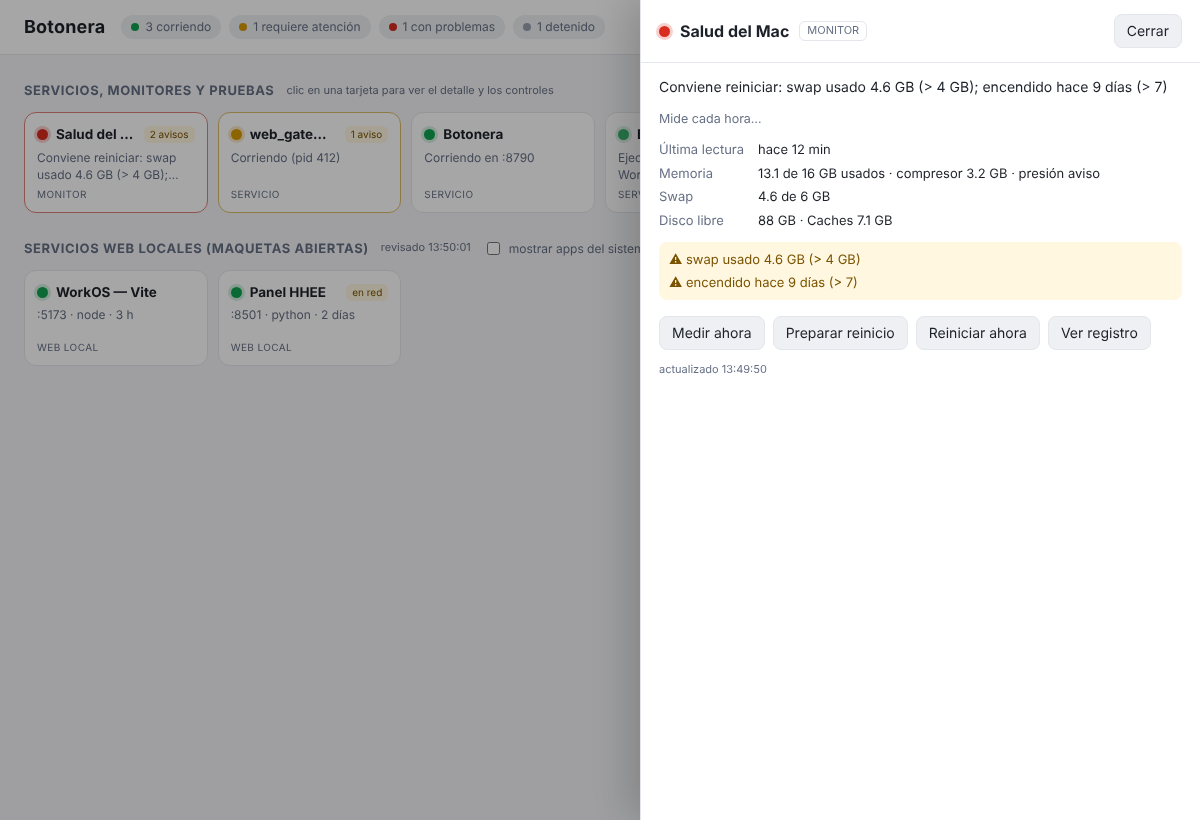
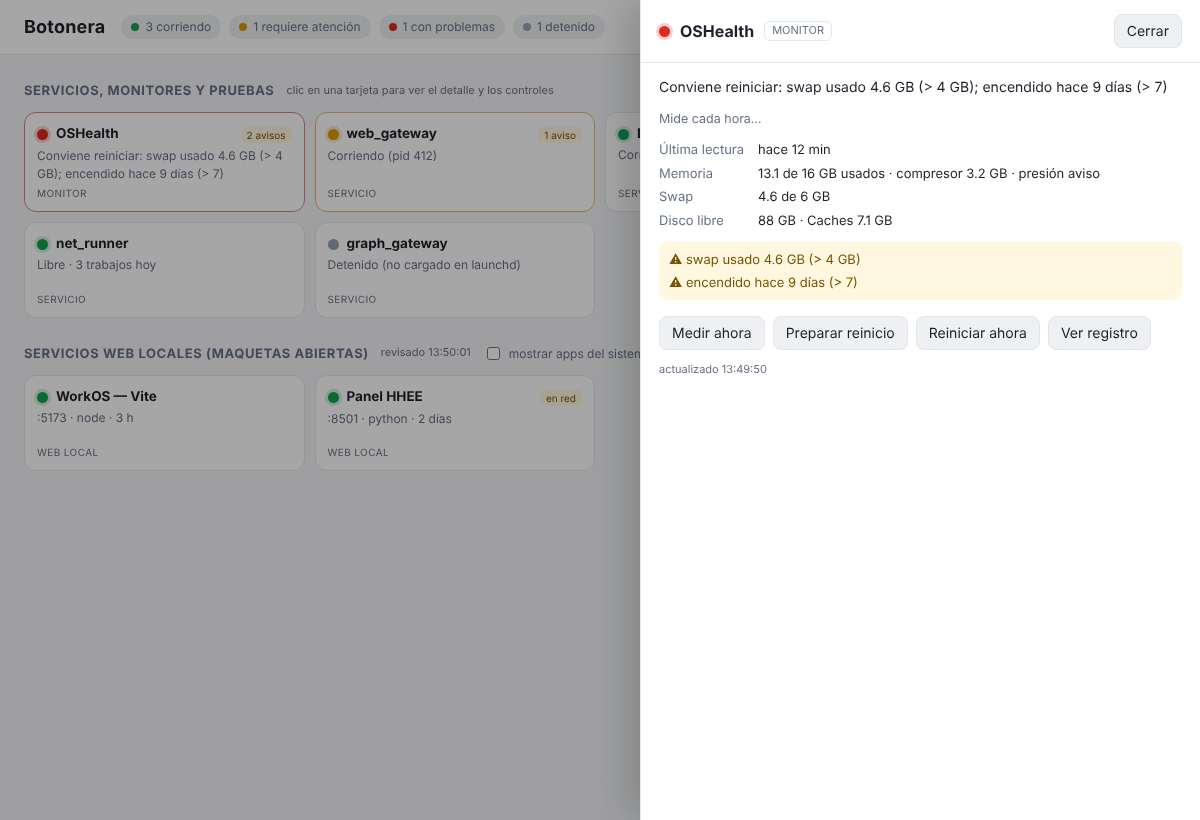
Mosaico: tarjetas más anchas con nombre y subtítulo completos; el nombre de la ficha manda; monitor renombrado OSHealth
Claude-Session: https://claude.ai/code/session_01NZBxFnDTuB7P2JtrEmbZB5

diff --git a/botonera/pagina.html b/botonera/pagina.html
@@ -38,19 +38,21 @@ h2 { font-size: 13px; text-transform: uppercase; letter-spacing: .6px; color: va
 .pie { color: var(--tenue); font-size: 11px; }
 
 /* ---- mosaico ---- */
-.mosaico { display: grid; grid-template-columns: repeat(auto-fill, minmax(170px, 1fr)); gap: 10px; margin-bottom: 26px; }
+.mosaico { display: grid; grid-template-columns: repeat(auto-fill, minmax(230px, 1fr)); gap: 10px; margin-bottom: 26px; align-items: stretch; }
 .tile { position: relative; text-align: left; background: var(--panel); border: 1px solid var(--borde); border-radius: 12px;
   padding: 12px 12px 10px; cursor: pointer; display: flex; flex-direction: column; gap: 4px; min-height: 96px;
   font: inherit; color: inherit; transition: transform .08s, box-shadow .12s, border-color .12s; }
 .tile:hover, .tile:focus-visible { transform: translateY(-1px); box-shadow: 0 6px 18px rgba(0,0,0,.10); border-color: var(--acento); outline: none; }
 .tile.s-rojo { border-color: color-mix(in srgb, var(--rojo) 55%, var(--borde)); }
 .tile.s-amarillo { border-color: color-mix(in srgb, var(--amarillo) 55%, var(--borde)); }
-.tile .cab { display: flex; align-items: center; gap: 8px; }
-.tile .nombre { font-weight: 650; font-size: 13.5px; overflow: hidden; text-overflow: ellipsis; white-space: nowrap; }
-.tile .sub { font-size: 12px; color: var(--tenue); display: -webkit-box; -webkit-line-clamp: 2; -webkit-box-orient: vertical; overflow: hidden; }
+.tile .cab { display: flex; align-items: flex-start; gap: 8px; }
+.tile .cab .punto { margin-top: 4px; }
+.tile .nombre { font-weight: 650; font-size: 13.5px; line-height: 1.3; overflow-wrap: anywhere;
+  display: -webkit-box; -webkit-line-clamp: 2; -webkit-box-orient: vertical; overflow: hidden; }
+.tile .sub { font-size: 12px; color: var(--tenue); overflow-wrap: anywhere; display: -webkit-box; -webkit-line-clamp: 3; -webkit-box-orient: vertical; overflow: hidden; }
 .tile .tipo { margin-top: auto; font-size: 10px; color: var(--tenue); text-transform: uppercase; letter-spacing: .4px; }
 .tile .nombre { flex: 1; min-width: 0; }
-.tile .marca { flex: none; font-size: 10px; padding: 1px 6px; border-radius: 6px; white-space: nowrap;
+.tile .marca { flex: none; font-size: 10px; padding: 1px 6px; border-radius: 6px; white-space: nowrap; margin-top: 2px;
   background: var(--aviso-fondo); color: var(--aviso-texto); }
 .tile.pulso .punto { animation: pulso 1.6s ease-in-out infinite; }
 @keyframes pulso { 0%,100% { opacity: 1 } 50% { opacity: .35 } }
@@ -124,7 +126,8 @@ dialog.modal { border: 1px solid var(--borde); border-radius: 12px; background: 
   width: min(1000px, 94vw); max-height: 88vh; padding: 0; }
 .modal-cab { display: flex; align-items: center; padding: 12px 16px; border-bottom: 1px solid var(--borde); position: sticky; top: 0; background: var(--panel); }
 .modal-cuerpo { padding: 12px 16px; overflow: auto; }
-@media (max-width: 600px) { header, main { padding-left: 16px; padding-right: 16px; } .mosaico { grid-template-columns: repeat(2, 1fr); } }
+@media (max-width: 600px) { header, main { padding-left: 16px; padding-right: 16px; } .mosaico { grid-template-columns: 1fr 1fr; } }
+@media (max-width: 420px) { .mosaico { grid-template-columns: 1fr; } }
 </style>
 </head>
 <body>
@@ -213,7 +216,7 @@ function tileServicio(s) {
   const enCurso = /en curso|iniciando|ejecutando/i.test(t.subtitulo || '');
   return `<button class="tile s-${esc(t.semaforo)} ${enCurso ? 'pulso' : ''}" data-tipo="servicio" data-clave="${esc(s.id)}"
       title="${esc(NOMBRES_SEM[t.semaforo] || '')}">
-    <span class="cab"><span class="punto ${esc(t.semaforo)}"></span><span class="nombre">${esc(t.titulo || s.nombre)}</span>
+    <span class="cab"><span class="punto ${esc(t.semaforo)}"></span><span class="nombre">${esc(s.nombre || t.titulo)}</span>
       ${n ? `<span class="marca">${n} aviso${n > 1 ? 's' : ''}</span>` : ''}</span>
     <span class="sub">${esc(t.subtitulo || '')}</span>
     <span class="tipo">${esc(s.tipo)}</span>
@@ -227,7 +230,7 @@ function detalleServicio(s) {
   const botones = (s.botones || []).map(b =>
     `<button data-id="${esc(s.id)}" data-accion="${esc(b.accion)}" data-etiqueta="${esc(b.etiqueta)}" data-confirmar="${b.confirmar ? 1 : 0}">${esc(b.etiqueta)}</button>`).join('');
   return {
-    semaforo: t.semaforo, titulo: t.titulo || s.nombre, tipo: s.tipo,
+    semaforo: t.semaforo, titulo: s.nombre || t.titulo, tipo: s.tipo,
     html: `<div class="det-sub">${esc(t.subtitulo || '')}</div>
       ${s.descripcion ? `<div class="det-desc">${esc(s.descripcion)}</div>` : ''}
       ${dl ? `<dl>${dl}</dl>` : ''}

diff --git a/mac_health/mac_health.py b/mac_health/mac_health.py
@@ -399,7 +399,7 @@ def tarjeta():
         atencion.append("La última mantención terminó con error: " + str(mant.get("error", ""))[:200])
 
     print(json.dumps({"servicio": "mac_health", "corriendo": True, "crudo": {"estado": d, "mantencion": mant},
-                      "tarjeta": {"semaforo": sem, "titulo": "Salud del Mac", "subtitulo": sub, "datos": datos,
+                      "tarjeta": {"semaforo": sem, "titulo": "OSHealth", "subtitulo": sub, "datos": datos,
                                   "atencion": atencion}}, ensure_ascii=False))
 
 
@@ -665,7 +665,7 @@ def ficha():
     return {
         "esquema": "botonera-servicio/1",
         "id": "mac_health",
-        "nombre": "Salud del Mac",
+        "nombre": "OSHealth",
         "tipo": "monitor",
         "descripcion": "Mide cada hora memoria, swap, presión, carga, disco y servidores locales; recomienda reiniciar y prepara el equipo para que vuelva limpio.",
         "carpeta": str(BASE),

diff --git a/mac_health/LEEME.md b/mac_health/LEEME.md
@@ -1,4 +1,4 @@
-# mac_health — Salud del Mac
+# mac_health — OSHealth (salud del Mac)
 
 Mide cada hora el estado del MacBook, recomienda reiniciar cuando hay señales de degradación y, desde la
 Botonera, prepara el equipo para que el reinicio lo deje limpio. Un solo archivo de Python con biblioteca
@@ -11,8 +11,8 @@ bash ~/dev/mac_health/instalar.command
 ```
 
 Escribe `~/Library/LaunchAgents/local.mac-health.plist` (cada 3600 s y al iniciar sesión), deja la ficha
-`~/dev/botonera/servicios/mac_health.json` y, si existe `~/dev/cowork-local/` (o la carpeta que indique `COWORK_LOCAL`),
-crea ahí `mac_health/` con un espejo de solo lectura del estado para tu asistente de IA. Hace la primera medición al terminar. Para quitarlo: `python3 mac_health.py desinstalar`.
+`~/dev/botonera/servicios/mac_health.json` y crea `~/dev/cowork-local/mac_health/` (espejo de solo lectura
+para los Cowork). Hace la primera medición al terminar. Para quitarlo: `python3 mac_health.py desinstalar`.
 
 ## Qué mide y cómo decide
 
@@ -43,7 +43,7 @@ Los umbrales están en el dict `UMBRAL` al inicio de `mac_health.py`.
   4. Pide quit a las apps abiertas, excepto Finder, Terminal, iTerm2, Claude y navegadores. Las que
      queden abiertas (documentos sin guardar) se listan en la tarjeta.
   5. `brew cleanup -s --prune=all`, `npm cache clean --force`, `pip cache purge`, `uv cache clean`, DerivedData.
-  6. Vacía `~/Library/Caches` completo, protegiendo `ms-playwright` (navegadores de Playwright, pesados de volver a bajar).
+  6. Vacía `~/Library/Caches` completo, protegiendo `ms-playwright` (los navegadores de net_runner y web_gateway).
   7. Temporales del usuario (`DARWIN_USER_TEMP_DIR`) con más de 1 h.
   8. `~/Library/Logs` con más de 7 días.
   9. Papelera.
@@ -55,8 +55,8 @@ Los umbrales están en el dict `UMBRAL` al inicio de `mac_health.py`.
 - **Reiniciar ahora** (pide confirmación): `osascript … System Events restart`. Una app con cambios sin
   guardar puede detener el reinicio; la tarjeta ya te habrá avisado cuál.
 
-Los agentes de launchd (tus propios servicios) no se tocan: el reinicio los cierra y launchd los vuelve a
-levantar al iniciar sesión.
+Los gateways de launchd (net_runner, web_gateway, graph_gateway) no se tocan: el reinicio los cierra y
+launchd los vuelve a levantar al iniciar sesión.
 
 ## Permisos de macOS (primera vez)
 
@@ -74,7 +74,7 @@ Privacidad y seguridad.
 | Última medición / historial (200 lecturas) | `~/dev/mac_health/var/estado.json`, `var/historial.jsonl` |
 | Estado y registro de la mantención | `~/dev/mac_health/var/mantencion.json`, `var/mantencion.log` |
 | Salida del agente launchd | `~/dev/mac_health/var/launchd.log` |
-| Espejo para tu asistente de IA (opcional) | `$COWORK_LOCAL/mac_health/estado.json`, `historial.json`, `mantencion.json` |
+| Espejo para los Cowork (skill `mac-health`) | `~/dev/cowork-local/mac_health/estado.json`, `historial.json`, `mantencion.json` |
 | Ficha de la Botonera | `~/dev/botonera/servicios/mac_health.json` |
 | Agente launchd | `~/Library/LaunchAgents/local.mac-health.plist` |
 

diff --git a/docs/CONTRATO.md b/docs/CONTRATO.md
@@ -52,7 +52,7 @@ Las rutas van **absolutas** (la Botonera no expande `~` dentro de `cmd`). Cualqu
 | Campo | Uso en la página |
 |---|---|
 | `semaforo` | color del punto; `rojo`/`amarillo` resaltan el borde de la tarjeta compacta |
-| `titulo` | nombre en la tarjeta compacta y en el detalle |
+| `titulo` | respaldo del nombre: en la página manda el `nombre` de la ficha (así renombras algo sin tocar su script) |
 | `subtitulo` | una línea bajo el nombre (2 líneas máx. en la compacta); si contiene "en curso", "iniciando" o "ejecutando", el punto parpadea |
 | `datos[]` | pares etiqueta/valor ya formateados, en el detalle; una etiqueta `Estado` se omite (ya está en el subtítulo) |
 | `atencion[]` | frases que piden acción; su cantidad aparece como marca "N avisos" en la compacta |
